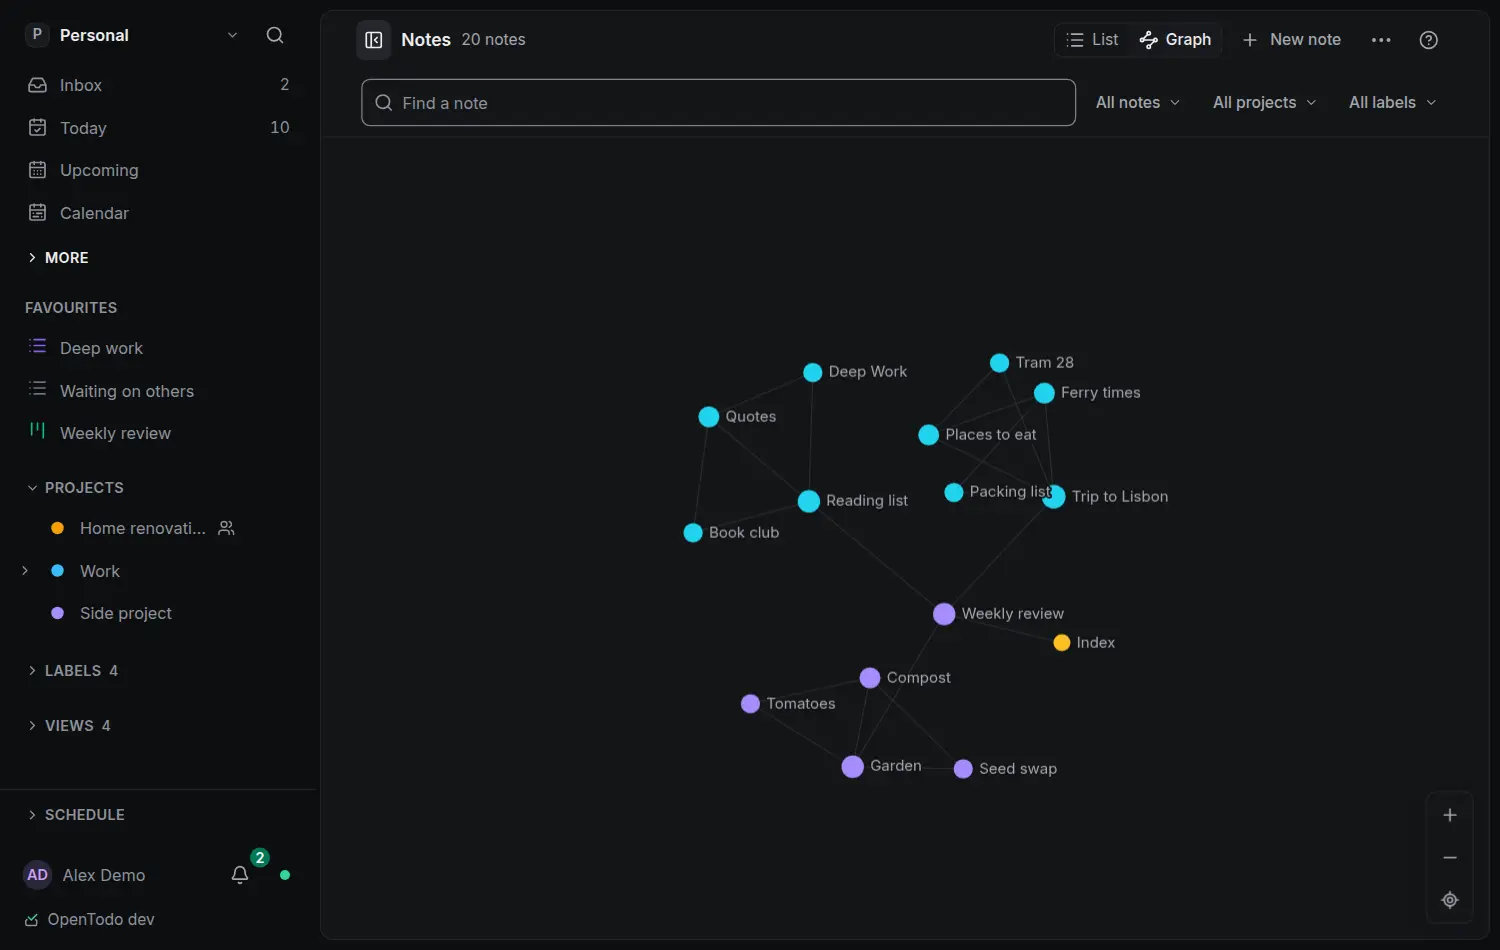
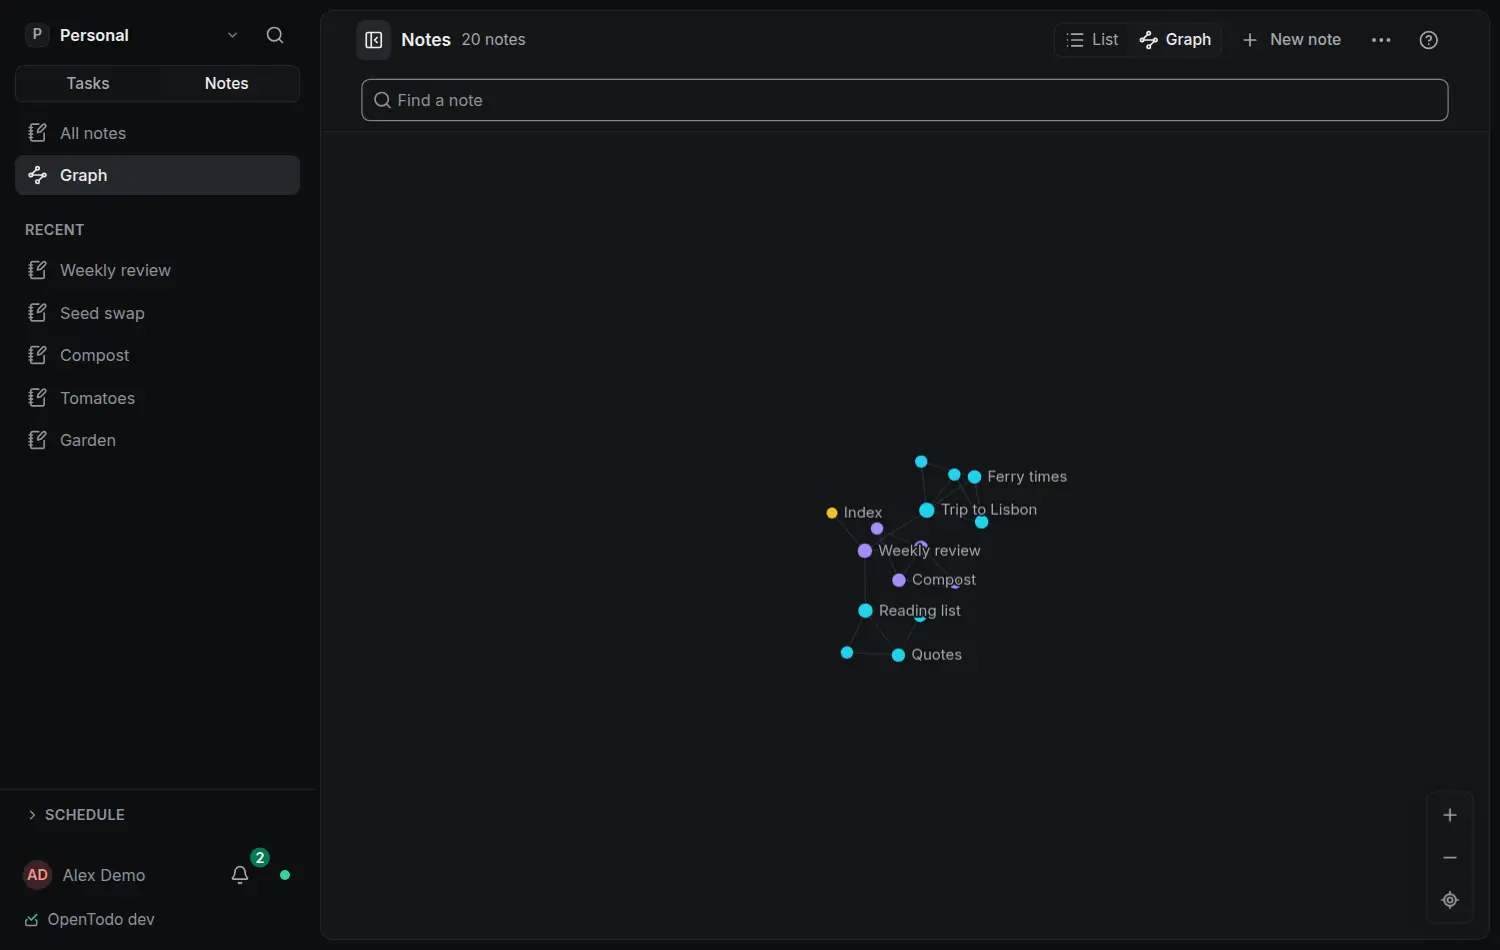
Notes graph: build on notes-space (header slot, sidebar Graph row, chips as topic)
List | Graph sits in the viewSwitch slot of NotesHeader; the Notes space of
the sidebar lists Graph under All notes (active by mode); the search
field's chips are the graph's topic (the list's own filtering, secondary
nodes lit through their notes). Specs, design, guide and changelog follow;
the sidebar's Notes space baselines and the guide's screenshot redone.

Claude-Session: https://claude.ai/code/session_01Bkw4TZLFDGeMdZR3vWZF13

diff --git a/openspec/changes/notes-graph-page/design.md b/openspec/changes/notes-graph-page/design.md
@@ -61,7 +61,7 @@ None. No op, field, table or route. Device-only preferences in local storage: th
 
 ## Size and memory
 
-No dependency (the force layout is ours; `d3-force` with `d3-quadtree` would be about 9 KB gzip, nondeterministic unless seeded and settling in view, and was the fallback named by `notes-graph` D7). The graph chunk is 11.0 KB gzip. First load, measured: the entry chunk 146,804 → 146,811 bytes gzip (+7, the mode in the router), the entry and its static imports 703,502 → 703,742 (+240: the router and the one shortcut entry); both stay within the budget (143.4 KB and 696 KB). Memory at 2,000 nodes and 5,000 links: typed arrays for positions and velocities (about 50 KB), the adjacency (about 100 KB), the stored positions (about 60 KB of JSON); the canvas is the page's size at the device pixel ratio (about 8 MB at 1600 × 900 × 2²). Container image size and server memory: unchanged.
+No dependency (the force layout is ours; `d3-force` with `d3-quadtree` would be about 9 KB gzip, nondeterministic unless seeded and settling in view, and was the fallback named by `notes-graph` D7). The graph chunk is 10.9 KB gzip. First load, measured on top of `notes-space`: the entry chunk 146,742 → 146,744 bytes gzip (+2, the mode in the router), the entry and its static imports 704,446 bytes (687.9 KB; before `notes-space` landed this change added 240 bytes there: the router, the one shortcut entry and the sidebar row); both within the budget (143.4 KB and 696 KB). Memory at 2,000 nodes and 5,000 links: typed arrays for positions and velocities (about 50 KB), the adjacency (about 100 KB), the stored positions (about 60 KB of JSON); the canvas is the page's size at the device pixel ratio (about 8 MB at 1600 × 900 × 2²). Container image size and server memory: unchanged.
 
 ## Interface budget
 
